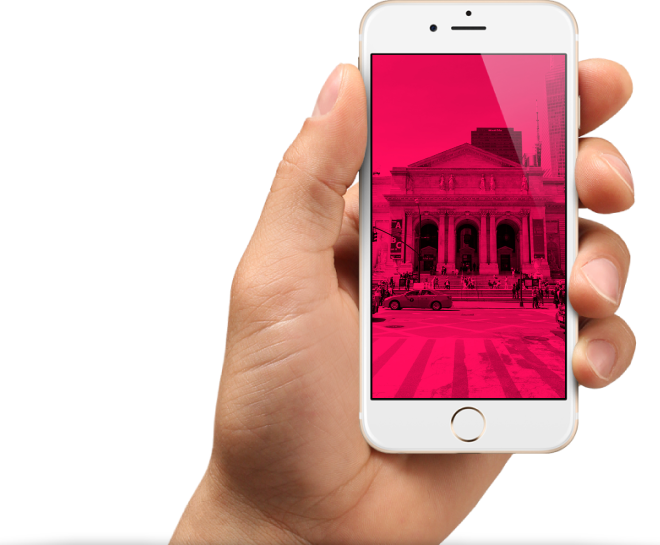
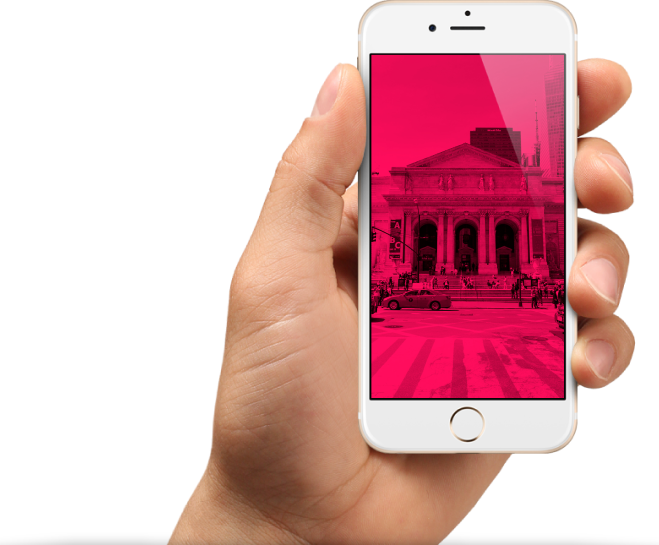
retina: into block background images.

Changed region(s): [[0.5159, 0.0936, 0.6373, 0.7174], [0.6677, 0.7486, 0.698, 0.7798], [0.3035, 0.7798, 0.3338, 0.811]]

diff --git a/source/less/components/index.less b/source/less/components/index.less
@@ -20,8 +20,14 @@
 
     grid-row: 2 / 3;
     content: "";
-    background: url("../../img/intro-image-front.png") center no-repeat;
+    background-image: url("../../img/intro-image-front.png");
+    background-position: center;
+    background-repeat: no-repeat;
     background-size: contain;
+
+    @media (min-resolution: 2dppx) {
+      background-image: url("../../img/intro-image-front@2x.png");
+    }
 
     @media (min-width: @width-md) {
       position: absolute;
@@ -34,9 +40,20 @@
       width: unset;
       height: unset;
 
-      background: url("../../img/intro-image-front-tablet.png") center no-repeat;
-      background-size: contain;
+      background-image: url("../../img/intro-image-front-tablet.png");
       grid-row: 1 / 3;
+
+      @media (min-resolution: 2dppx) {
+        background-image: url("../../img/intro-image-front-tablet@2x.png");
+      }
+    }
+
+    @media (min-width: @width-lg) {
+      background-image: url("../../img/intro-image-front-desktop.png");
+
+      @media (min-resolution: 2dppx) {
+        background-image: url("../../img/intro-image-front-desktop@2x.png");
+      }
     }
   }
 

diff --git a/source/less/components/intro.less b/source/less/components/intro.less
@@ -9,21 +9,36 @@
     left: 0;
     z-index: -1;
 
+    background-color: @blue-gray;
+
     content: "";
-    background: url("../../img/back-mobile.jpg") top @blue-gray;
+    background-image: url("../../img/back-mobile.jpg");
+    background-position: top;
     background-size: cover;
+
+    @media (min-resolution: 2dppx) {
+      background-image: url("../../img/back-mobile@2x.jpg");
+    }
 
     @media (min-width: @width-md) {
       top: -@height-header-md;
+
+      background-image: url("../../img/back-tablet.jpg");
+
+      @media (min-resolution: 2dppx) {
+        background-image: url("../../img/back-tablet@2x.jpg");
+      }
+    }
+
+    @media (min-width: @width-lg) {
+      background-image: url("../../img/back-desktop.jpg");
+
+      @media (min-resolution: 2dppx) {
+        background-image: url("../../img/back-desktop@2x.jpg");
+      }
     }
   }
 }
-
-//@media (max-width: @width-md) {
-//  .main-nav--opened + main .intro {
-//    margin-top: @height-header-sm - @height-header-sm--opened;
-//  }
-//}
 
 .intro__wrapper {
   text-align: center;
